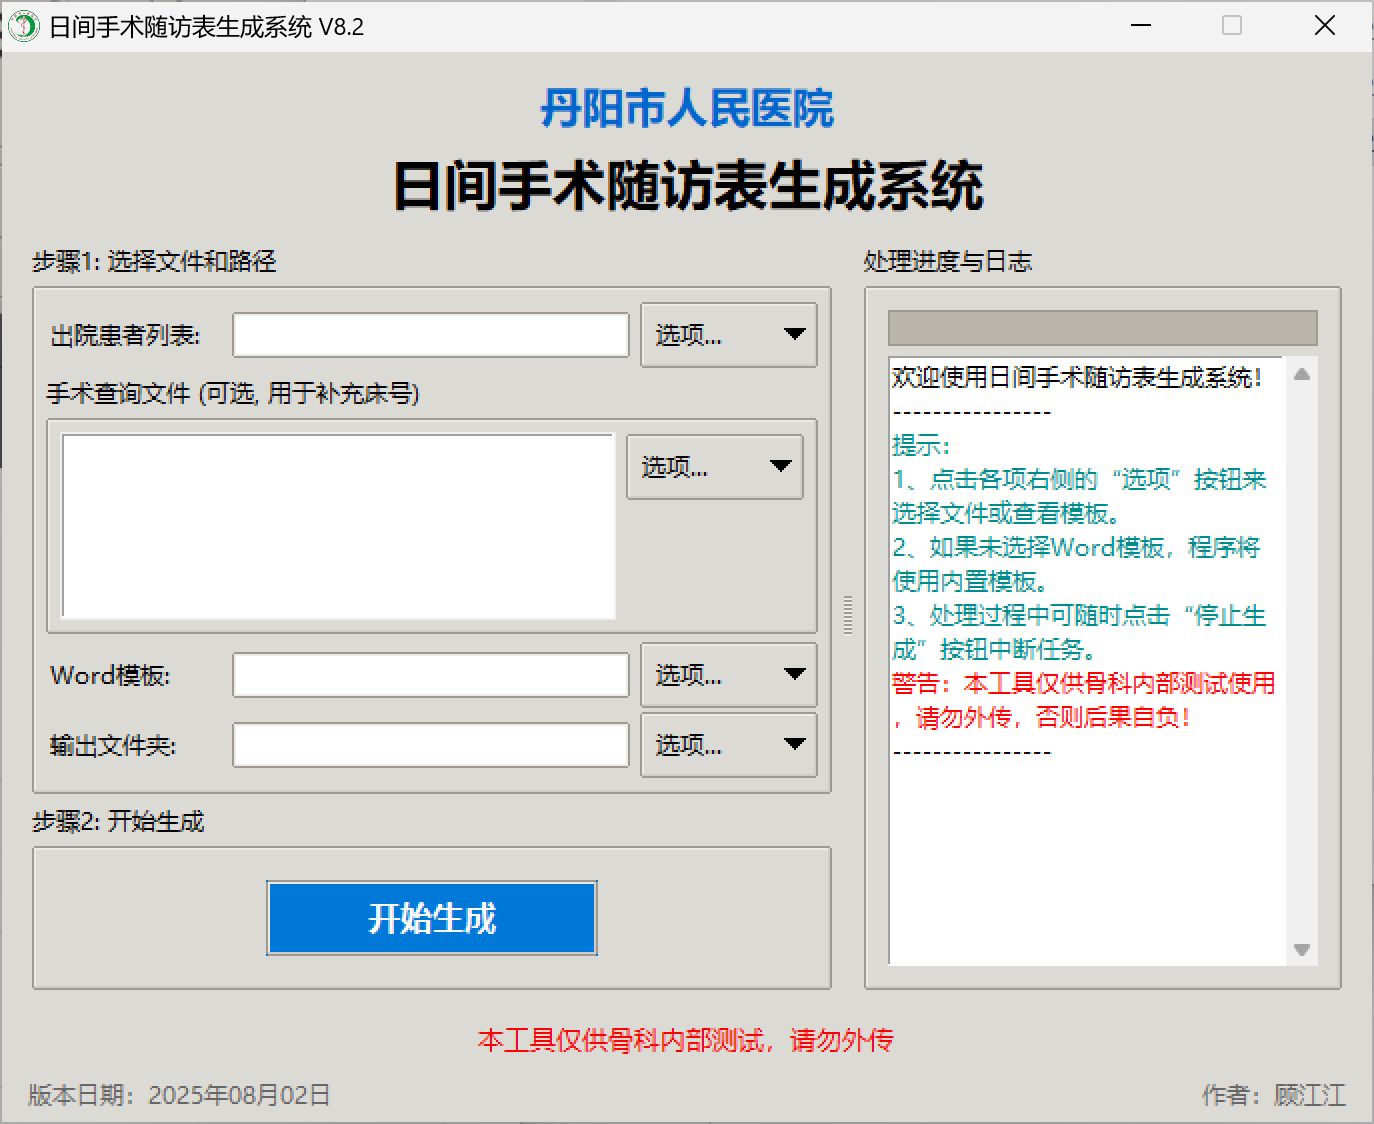
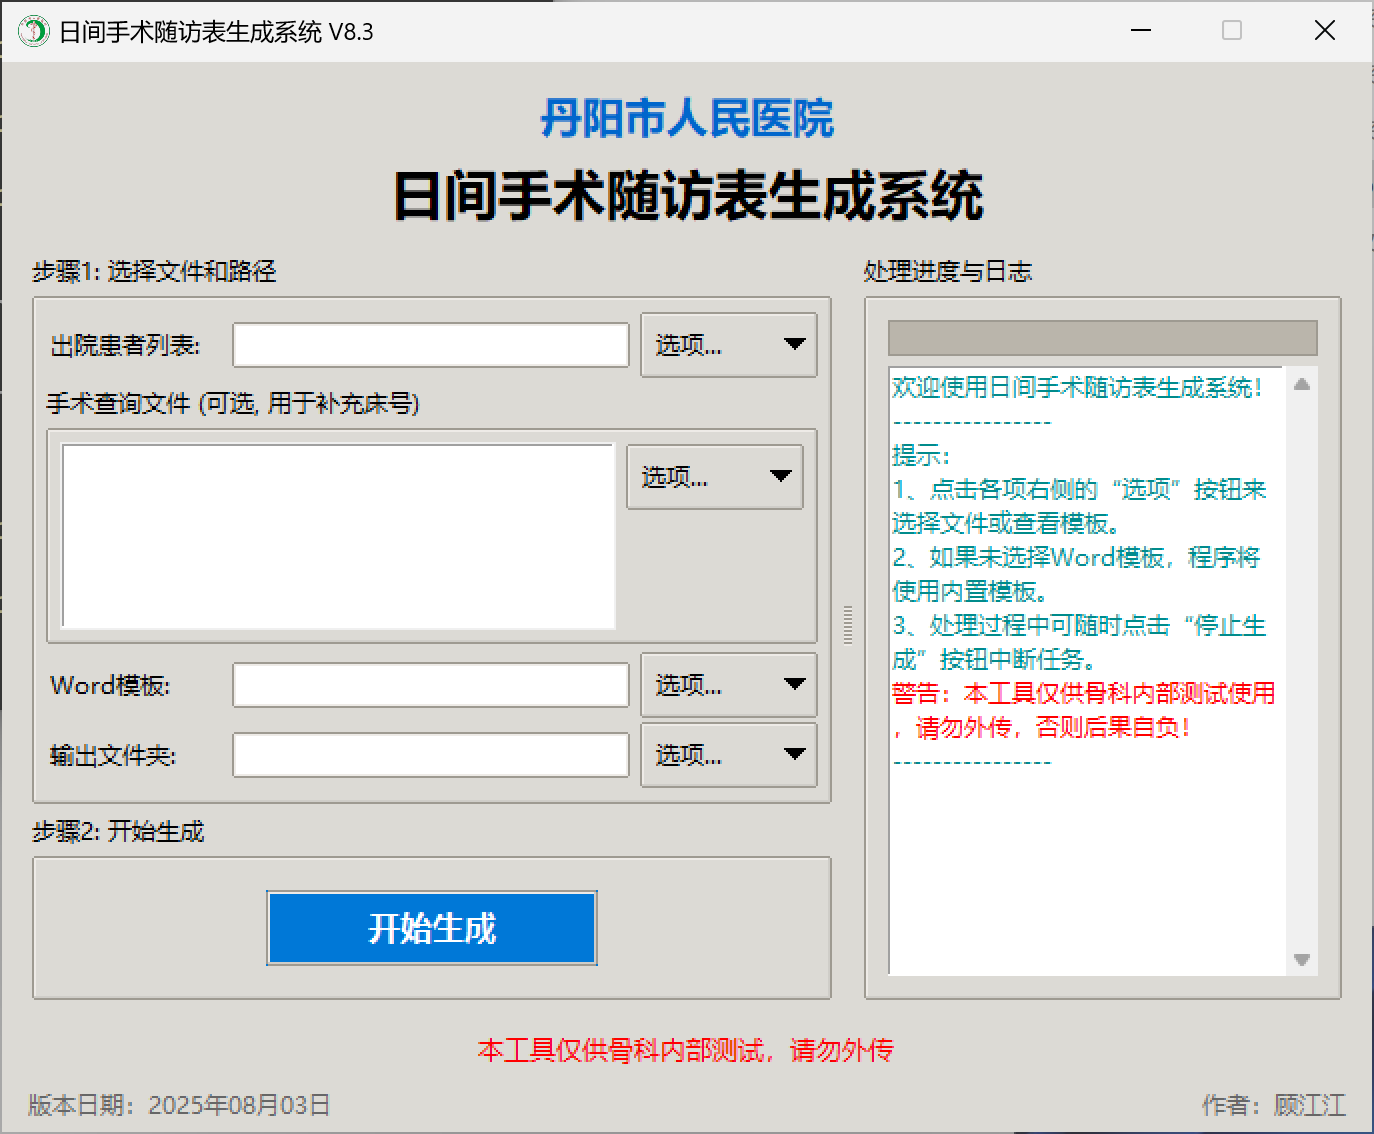
抽象文件/文件夹选择逻辑和日志记录方法，减少重复代码
- [优化] 抽象文件/文件夹选择逻辑，减少重复代码。
- [优化] 合并log_message和log_raw为一个统一的日志记录方法log。

diff --git a/source/src/gui/main_app.py b/source/src/gui/main_app.py
@@ -83,11 +83,11 @@ class MainApp:
     def _display_welcome_message(self):
         """在日志区显示欢迎和提示信息。"""
         separator = CONFIG.get("log_separator", "---")
-        self.log_raw(CONFIG.get("welcome_message", ""))
-        self.log_raw(separator)
-        self.log_raw(CONFIG.get("welcome_tips", ""), level="info")
-        self.log_raw(CONFIG.get("welcome_warning", ""), level="error") # 添加警告语
-        self.log_raw(separator)
+        self.log(CONFIG.get("welcome_message", ""), add_timestamp=False)
+        self.log(separator, add_timestamp=False)
+        self.log(CONFIG.get("welcome_tips", ""), level="info", add_timestamp=False)
+        self.log(CONFIG.get("welcome_warning", ""), level="error", add_timestamp=False) # 添加警告语
+        self.log(separator, add_timestamp=False)
 
     def open_template(self, template_type):
         """将模板复制到临时的只读文件并打开它。"""
@@ -112,24 +112,35 @@ class MainApp:
 
             if temp_path:
                 os.startfile(temp_path)
-                self.log_message(f"已打开模板: {os.path.basename(temp_path)}")
+                self.log(f"已打开模板: {os.path.basename(temp_path)}")
             else:
                 messagebox.showerror("错误", "创建临时模板文件失败。")
 
         except Exception as e:
             messagebox.showerror("打开失败", f"无法打开模板文件。\n错误: {e}")
 
+    def _select_path(self, selection_type, title, filetypes=None):
+        """通用路径选择函数，用于文件或文件夹。"""
+        if selection_type == 'file':
+            path = filedialog.askopenfilename(title=title, filetypes=filetypes)
+        elif selection_type == 'directory':
+            path = filedialog.askdirectory(title=title)
+        else:
+            return None # 不应发生此情况
+        return path
+
     def select_excel_file(self):
-        path = filedialog.askopenfilename(title="选择出院患者记录单", filetypes=[("Excel文件", "*.xlsx *.xls")])
+        """选择出院患者记录单Excel文件。"""
+        path = self._select_path('file', "选择出院患者记录单", [("Excel文件", "*.xlsx *.xls")])
         if path:
             self.excel_full_path = path
             self.excel_display_var.set(os.path.basename(path))
-            self.log_message(f"已选择出院患者列表: {path}")
-    
+            self.log(f"已选择出院患者列表: {path}")
+
     def clear_excel_selection(self):
         self.excel_full_path = ""
         self.excel_display_var.set("")
-        self.log_message("已清空出院患者列表选择。")
+        self.log("已清空出院患者列表选择。")
 
     def select_surgery_query_files(self):
         paths = filedialog.askopenfilenames(title="选择一个或多个手术查询文件", filetypes=[("Excel文件", "*.xlsx *.xls")])
@@ -138,42 +149,44 @@ class MainApp:
                 if path not in self.surgery_query_files:
                     self.surgery_query_files.append(path)
                     self.surgery_listbox.insert(tk.END, os.path.basename(path))
-                    self.log_message(f"已添加手术查询文件: {path}")
+                    self.log(f"已添加手术查询文件: {path}")
 
     def clear_surgery_query_files(self):
         self.surgery_query_files.clear()
         self.surgery_listbox.delete(0, tk.END)
-        self.log_message("已清空手术查询文件列表。")
+        self.log("已清空手术查询文件列表。")
 
     def select_template_file(self):
-        path = filedialog.askopenfilename(title="选择随访表模板", filetypes=[("Word模板", "*.docx")])
+        """选择自定义的Word模板文件。"""
+        path = self._select_path('file', "选择随访表模板", [("Word模板", "*.docx *.doc")])
         if path:
             self.template_full_path = path
             self.template_display_var.set(os.path.basename(path))
-            self.log_message(f"已选择Word模板: {path}")
+            self.log(f"已选择Word模板: {path}")
 
     def use_builtin_word_template(self):
         """设置UI以表明正在使用内置模板。"""
         self.template_full_path = "" # 清空外部路径
         self.template_display_var.set("[使用内置模板]")
-        self.log_message("已选择使用内置Word模板。")
+        self.log("已选择使用内置Word模板。")
         
     def clear_template_selection(self):
         self.template_full_path = ""
         self.template_display_var.set("")
-        self.log_message("已清空Word模板选择。")
+        self.log("已清空Word模板选择。")
 
     def select_output_dir(self):
-        path = filedialog.askdirectory(title="选择保存位置")
+        """选择用于保存生成文档的输出文件夹。"""
+        path = self._select_path('directory', "选择保存位置")
         if path:
             self.output_dir_full_path = path
             self.output_dir_display_var.set(os.path.basename(path))
-            self.log_message(f"已选择输出文件夹: {path}")
+            self.log(f"已选择输出文件夹: {path}")
             
     def clear_output_dir_selection(self):
         self.output_dir_full_path = ""
         self.output_dir_display_var.set("")
-        self.log_message("已清空输出文件夹选择。")
+        self.log("已清空输出文件夹选择。")
 
     def toggle_generation(self):
         """根据当前状态，开始或停止文档生成过程。"""
@@ -205,7 +218,7 @@ class MainApp:
             
             # --- 优化：不清空日志，只重置进度条并添加分隔符 ---
             self.progress_bar['value'] = 0
-            self.log_raw(CONFIG.get("log_separator", "---"))
+            self.log(CONFIG.get("log_separator", "---"), add_timestamp=False)
             # ---------------------------------------------
             
             self.start_button.config(text="停止生成", style="Stop.TButton")
@@ -255,42 +268,46 @@ class MainApp:
         )
 
         if not filepath:
-            self.log_message("用户取消了日志导出。")
+            self.log("用户取消了日志导出。")
             return
 
         try:
             with open(filepath, 'w', encoding='utf-8') as f:
                 f.write(log_content)
-            self.log_message(f"日志已成功导出到: {filepath}", level="info")
+            self.log(f"日志已成功导出到: {filepath}", level="info")
             messagebox.showinfo("成功", f"日志已成功导出到:\n{filepath}")
         except Exception as e:
-            self.log_message(f"导出日志失败: {e}", level="error")
+            self.log(f"导出日志失败: {e}", level="error")
             messagebox.showerror("导出失败", f"无法将日志保存到指定位置。\n错误: {e}")
 
-    def log_message(self, msg, level="info"):
-        if not msg or not str(msg).strip(): return
-        def append():
-            self.log_text.config(state='normal')
-            timestamp = datetime.now().strftime('%H:%M:%S')
-            full_log_line = f"{timestamp} - {msg}\n"
-            if level in self.log_text_tags:
-                self.log_text.insert(tk.END, full_log_line, (level,))
-            else:
-                self.log_text.insert(tk.END, full_log_line)
-            self.log_text.config(state='disabled')
-            self.log_text.see(tk.END)
-        self.root.after(0, append)
+    def log(self, msg, level="info", add_timestamp=True):
+        """
+        统一的日志记录方法。
+        :param msg: 要记录的消息。
+        :param level: 日志级别 ('info', 'error', 'success')，用于文本着色。
+        :param add_timestamp: 是否在消息前添加时间戳。
+        """
+        if not msg or not str(msg).strip():
+            return
 
-    def log_raw(self, msg, level=None):
-        if not msg or not str(msg).strip(): return
         def append():
             self.log_text.config(state='normal')
+            
+            log_line = str(msg)
+            if add_timestamp:
+                timestamp = datetime.now().strftime('%H:%M:%S')
+                log_line = f"{timestamp} - {log_line}"
+            
+            full_log_line = f"{log_line}\n"
+
+            tag_to_use = ()
             if level and level in self.log_text_tags:
-                self.log_text.insert(tk.END, str(msg) + '\n', (level,))
-            else:
-                self.log_text.insert(tk.END, str(msg) + '\n')
+                tag_to_use = (level,)
+
+            self.log_text.insert(tk.END, full_log_line, tag_to_use)
             self.log_text.config(state='disabled')
             self.log_text.see(tk.END)
+
         self.root.after(0, append)
 
     def update_progress(self, value):

diff --git a/source/src/config.py b/source/src/config.py
@@ -4,7 +4,7 @@
 """
 
 CONFIG = {
-    "app_title": "日间手术随访表生成系统 V8.2",
+    "app_title": "日间手术随访表生成系统 V8.3",
     "day_surgery_max_days": 2,
     "follow_up_days": 7,  # 随访发生于出院后的天数
     "unknown_bed_placeholder": "（手动填写）", # Word内容中的床号未知占位符

diff --git a/docs/BUILD_GUIDE.md b/docs/BUILD_GUIDE.md
@@ -123,8 +123,8 @@ python -m nuitka `
   --mingw64 `
   --output-dir=build `
   --output-filename="day_durgery_form_automator.exe" `
-  --file-version=8.2.10.1 `
-  --product-version=8.2 `
+  --file-version=8.3.0.1 `
+  --product-version=8.3 `
   --company-name="Danyang People's Hospital" `
   --product-name="Day Surgery Form Automator" `
   --copyright="© 2025 gujiangjiang" `
@@ -145,8 +145,8 @@ python -m nuitka ^
   --mingw64 ^
   --output-dir=build ^
   --output-filename="day_durgery_form_automator.exe" ^
-  --file-version=8.2.10.1 `
-  --product-version=8.2 `
+  --file-version=8.3.0.1 `
+  --product-version=8.3 `
   --company-name="Danyang People's Hospital" `
   --product-name="Day Surgery Form Automator" `
   --copyright="© 2025 gujiangjiang" `

diff --git a/docs/changelog.md b/docs/changelog.md
@@ -211,3 +211,7 @@
 - [新增] 首次打开应用时，日志区会显示警告语。
 - [新增] 为日志区域添加右击菜单，新增清空日志功能和导出日志功能
 - [优化] 调整部分菜单的顺序，更符合逻辑
+
+#### 版本 V8.3 更新内容:
+- [优化] 抽象文件/文件夹选择逻辑，减少重复代码。
+- [优化] 合并log_message和log_raw为一个统一的日志记录方法log。
